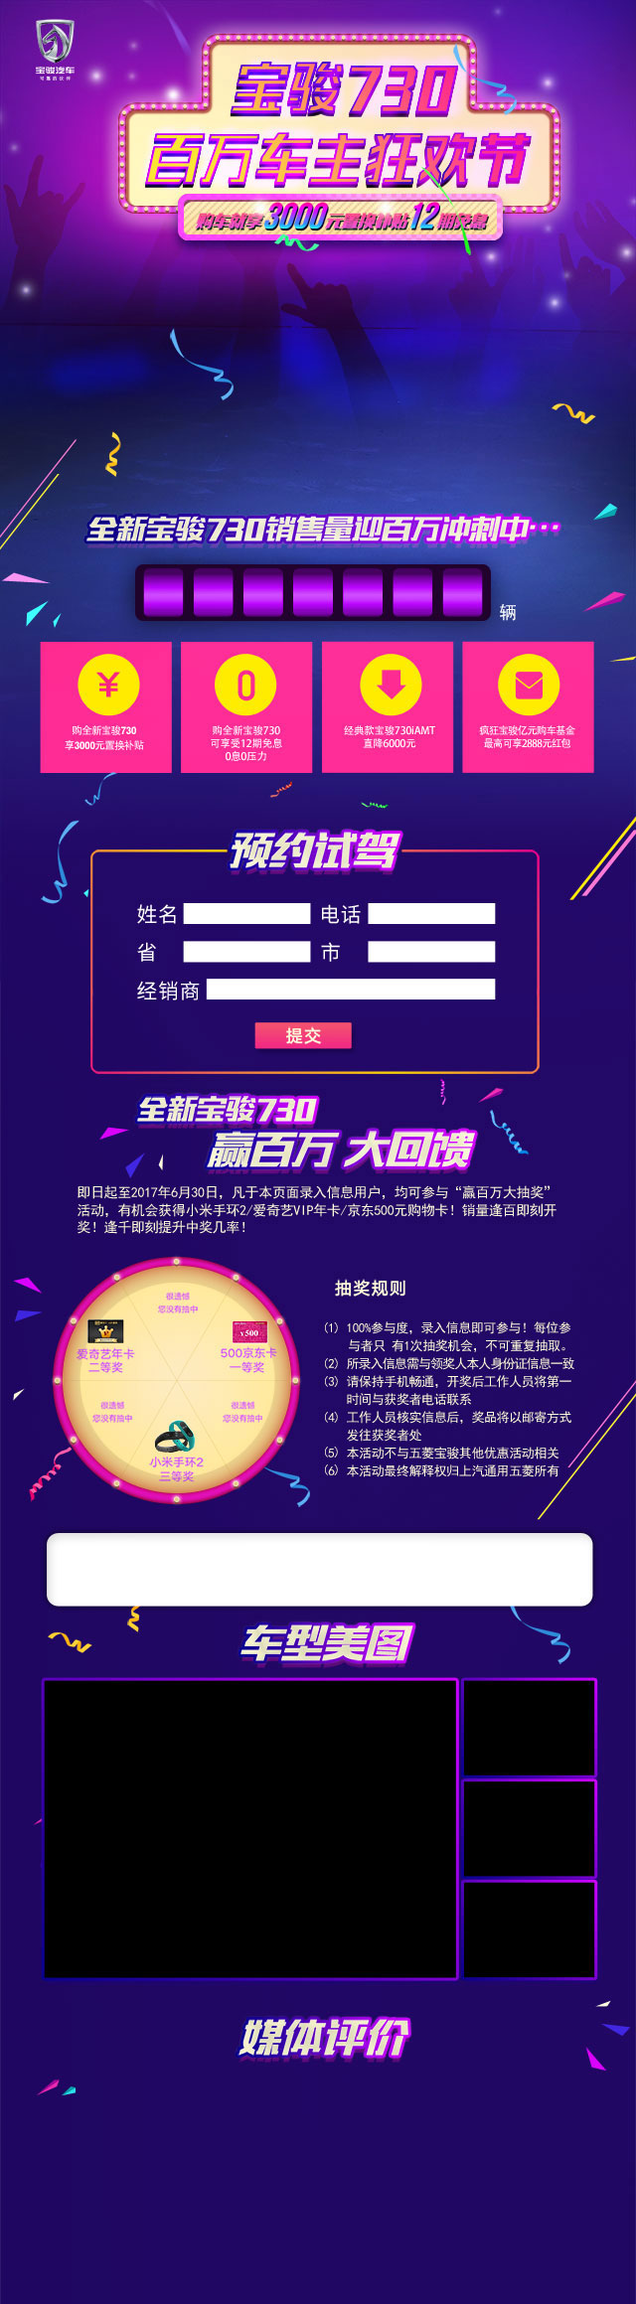
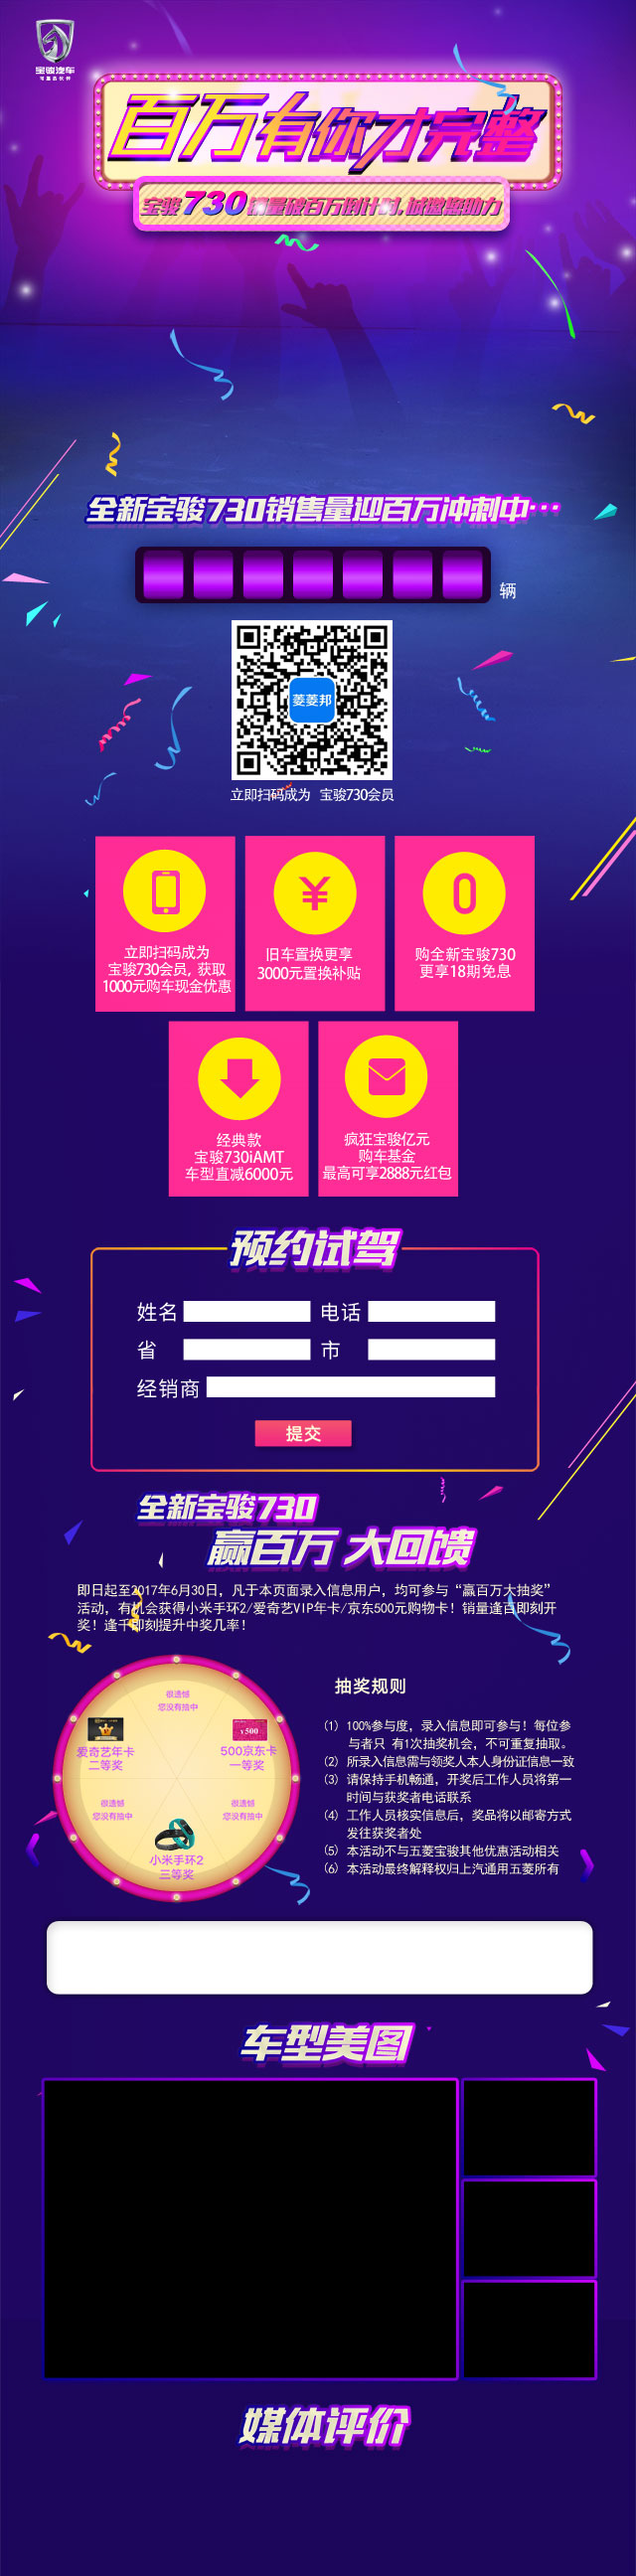
调整ui

diff --git a/css/css.css b/css/css.css
@@ -461,17 +461,17 @@ body{width:100%;height:3985px;background:url(../images/bg.jpg) center no-repeat;
   0%{opacity:0;transform:scale(0);}
   100%{opacity:1;transform:scale(1);}
 }
-.number{position: absolute;top:988px;width: 1000px;font-size: 67px;font-weight: bold;color: #fff;text-align: center;}
+.number{position: absolute;top:926px;width: 1000px;font-size: 67px;font-weight: bold;color: #fff;text-align: center;}
 .number span{margin-left: 17px;display: block;float: left;width: 70px;}
 .number span:nth-of-type(1){margin-left:200px;}
-.info{width:1000px;height:400px;position:absolute;top:1476px;}
+.info{width:1000px;height:400px;position:absolute;top:1668px;margin-left:16px;}
 .info input,.info select{position:absolute;}
 .info .submit{width:175px;height:52px;position:absolute;cursor:pointer;}
-.wheel{width:1000px;height:500px;position:absolute;top:2150px;}
+.wheel{width:1000px;height:500px;position:absolute;top:2303px;}
 .start{width:150px;height:171px;position:absolute;background:url(../images/start.png) center no-repeat;transition:all 3s;cursor:pointer;}
-.award{position:absolute;width:940px;height:80px;top:2637px;text-align:center;font-size:14px;margin-left:45px;}
+.award{position:absolute;width:940px;height:80px;top:2787px;text-align:center;font-size:14px;margin-left:45px;}
 .award div{margin-bottom:5px;}
-.pic{position:absolute;width:1000px;height:550px;top:2894px;}
+.pic{position:absolute;width:1000px;height:550px;top:3006px;}
 .pic img{cursor:pointer;display:block;height:100%;margin-left:-28px;}
 .pic div{position:absolute;overflow:hidden;}
 .pic .big_img{width:713px;height:515px;top: 21px;left: 29px;}
@@ -480,7 +480,7 @@ body{width:100%;height:3985px;background:url(../images/bg.jpg) center no-repeat;
 .pic .s_img:nth-of-type(2){top:21px;}
 .pic .s_img:nth-of-type(3){top:196px;}
 .pic .s_img:nth-of-type(4){top:371px;}
-.news{position:absolute;width:1000px;height:162px;top:3610px;}
+.news{position:absolute;width:1000px;height:162px;top:3698px;}
 .news a{display:block;float:left;margin-left:6px;}
 .news a:nth-of-type(1){margin-left:69px;}
 .mask{display:none;width:100%;height:100%;top:0;position:fixed;background:rgba(0,0,0,.5);}
@@ -504,11 +504,11 @@ body{width:100%;height:3985px;background:url(../images/bg.jpg) center no-repeat;
   z-index:20;
   transform:scale(0.8);-webkit-transform:scale(0.8);
 }
-.sign_up_now{position: absolute;top:217px;display: block;width: 229px;height: 62px;
+.sign_up_now{position: absolute;top:189px;display: block;width: 229px;height: 62px;
   background: url(../images/sign_up_btn.png) center no-repeat;left:39%;
 }
 @media screen and (max-width: 910px) {
-  body{width:100%;height:23.3rem;background:url(../images/wap_bg.jpg) center no-repeat;background-size:6.4rem 23.3rem;}
+  body{width:100%;height:24.9rem;background:url(../images/wap_bg.jpg) center top no-repeat #1C065B;background-size:6.4rem 23.3rem;}
   .content{width:100%;height:23.3rem;}
   .light_wrap{width:100%;height:3rem;}
   .light{width:0.9rem;top:0.9rem;height:auto;}
@@ -518,29 +518,29 @@ body{width:100%;height:3985px;background:url(../images/bg.jpg) center no-repeat;
   .car{position: absolute;left:0;width:100%;height:527px;background:url(../images/wap_car.png);animation:car 1.5s ease 3s forwards;
     opacity: 0;background-size: 100%;}
   .car img{width:100%;}
-  .number{width: 100%;top: 5.74rem;font-size: 0.4rem;}
+  .number{width: 100%;top:4.92rem;font-size: 0.4rem;}
   .number span{margin-left:0.2rem;display: block;float: left;width:0.3rem;}
   .number span:nth-of-type(1){margin-left:1.5rem;}
-  .info{top:7rem;width:100%;height:4rem;}
-  .info input,.info select{width:1.29rem;height:0.21rem;top:2.13rem;font-size:0.12rem;}
+  .info{top:9.57rem;width:100%;height:4rem;margin-left:0;}
+  .info input,.info select{width:1.29rem;height:0.24rem;top:2.13rem;font-size:0.12rem;}
   .info select{top:2.51rem;}
   #name,#pro{left:1.84rem;}
   #tel,#city{left:3.7rem;}
   .info #delear{width:2.92rem;height:0.22rem;top: 2.88rem;left: 2.08rem;}
   .btn{width:1.2rem !important;height:0.4rem !important;left: 2.5rem;top: 3.25rem;}
-  .wheel{width: 100%;top: 13.1rem;height: 2rem;}
+  .wheel{width: 100%;top: 15.22rem;height: 2rem;margin-left: -0.02rem;}
   .start{width: 0.8rem;height: 1.71rem;background-size: 100%;top: -0.03rem;left: 1.4rem;}
-  .award{width: 90%;top: 15.5rem;margin-left: 0.34rem;height: 0.7rem;font-size:0.1rem;}
+  .award{width: 90%;top:17.39rem;margin-left: 0.34rem;height: 0.7rem;font-size:0.1rem;}
   .award div{font-size:0.1rem;margin-bottom:0.05rem;}
-  .pic{width: 100%;top: 15rem;height: 4rem;}
-  .pic img{cursor:pointer;display:block;height:100%;margin-left:-0.16rem;}
-  .pic .big_img{width:4.14rem;height:2.99rem;top:1.99rem;left:0.45rem;}
+  .pic{width: 100%;top:16.82rem;height: 4rem;}
+  .pic img{cursor:pointer;display:block;height:100%;margin-left:-0.1rem;}
+  .pic .big_img{width:4.14rem;height:2.7rem;top:1.99rem;left:0.45rem;}
   .pic .big_img img{margin-left:-0.2rem;}
-  .pic .s_img{width:1.31rem;height:0.95rem;right:0.41rem;}
-  .pic .s_img:nth-of-type(2){top:1.98rem;}
-  .pic .s_img:nth-of-type(3){top:3.01rem;}
-  .pic .s_img:nth-of-type(4){top:4.03rem;}
-  .news{position:absolute;width:100%;height:1rem;top:21.3rem;}
+  .pic .s_img{width:1.31rem;height:0.86rem;right:0.41rem;}
+  .pic .s_img:nth-of-type(2){top:2rem;}
+  .pic .s_img:nth-of-type(3){top:2.91rem;}
+  .pic .s_img:nth-of-type(4){top:3.82rem;}
+  .news{position:absolute;width:100%;height:1rem;top:22.3rem;}
   .news a{display:block;float:left;margin-left:0.06rem;width: 1.28rem;height: 0.84rem;}
   .news a img{width:100%;}
   .news a:nth-of-type(1){margin-left:0.6rem;}
